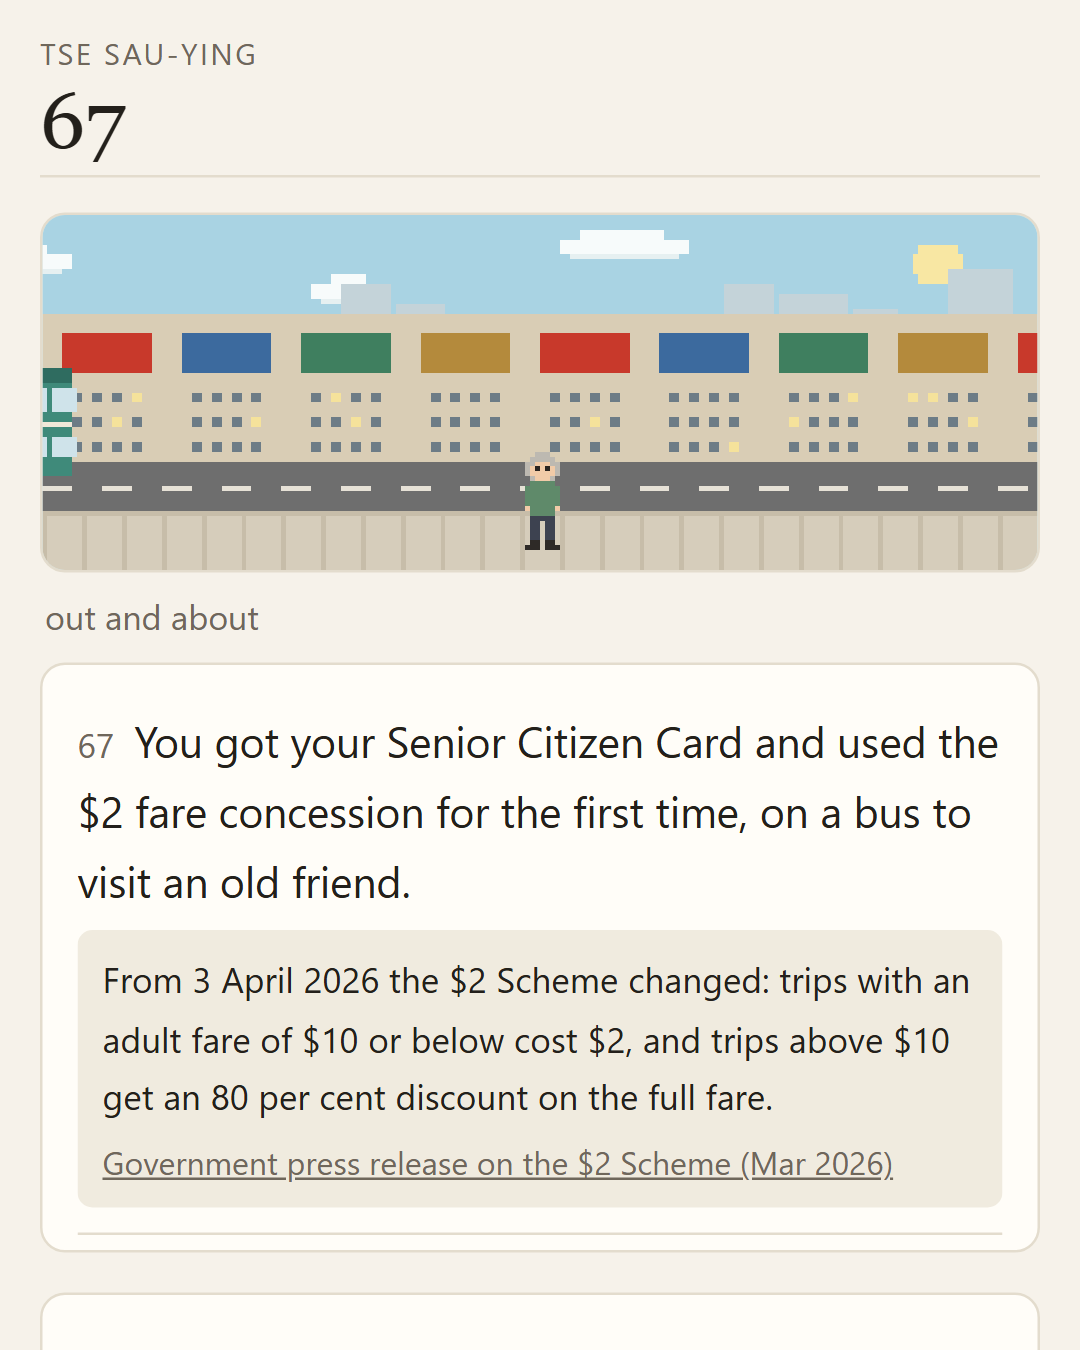
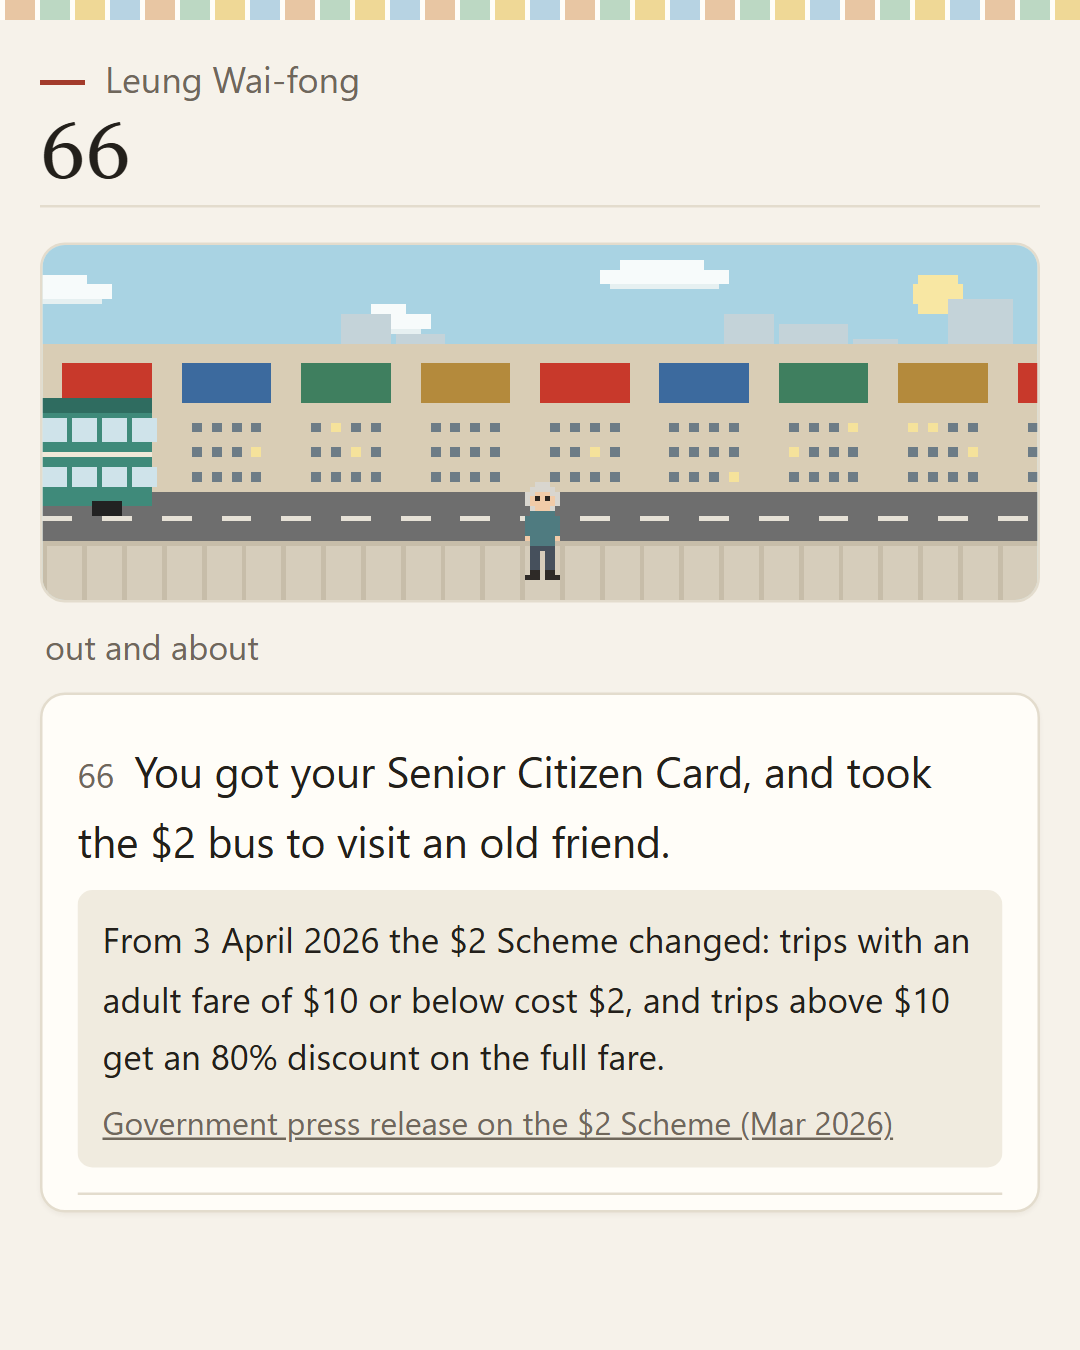
README: current screenshot and a link to play

Changed region(s): [[0.0, 0.0, 1.0, 0.5289], [0.0611, 0.5289, 0.9472, 0.9022], [0.3056, 0.0622, 0.3361, 0.0933]]

diff --git a/README.md b/README.md
@@ -2,9 +2,11 @@
 
 A life simulation built on Hong Kong public statistics. The first scenario is **Turning 65 in Hong Kong**: you are dealt one person's 65th birthday in the real census proportions, and you live the years that follow, one at a time, at published odds. It is bilingual, in Traditional Chinese (the default) and English.
 
-<img src="docs/screenshot.png" alt="One year of a simulated life: a pixel scene of a street, the line 'You got your Senior Citizen Card and used the $2 fare concession for the first time', and a shaded box with the sourced fact behind it" width="420">
+**Play it:** https://kfc283-sudo.github.io/one-hong-kong-life/ (English: [?lang=en](https://kfc283-sudo.github.io/one-hong-kong-life/?lang=en))
 
-Every number a reader sees sits in a shaded box with a link to its source. How those numbers are strung into a life is this project's own model, and the method page says so.
+<img src="docs/screenshot.png" alt="One year of a simulated life at 66: a pixel street scene, the line 'You got your Senior Citizen Card, and took the $2 bus to visit an old friend', and a shaded box with the 2026 change to the $2 Scheme and its government source" width="420">
+
+Every statistic a reader sees sits in a shaded box with a link to its source. How those numbers are strung into a life is this project's own model, and the method page says so.
 
 ## How it works
 
